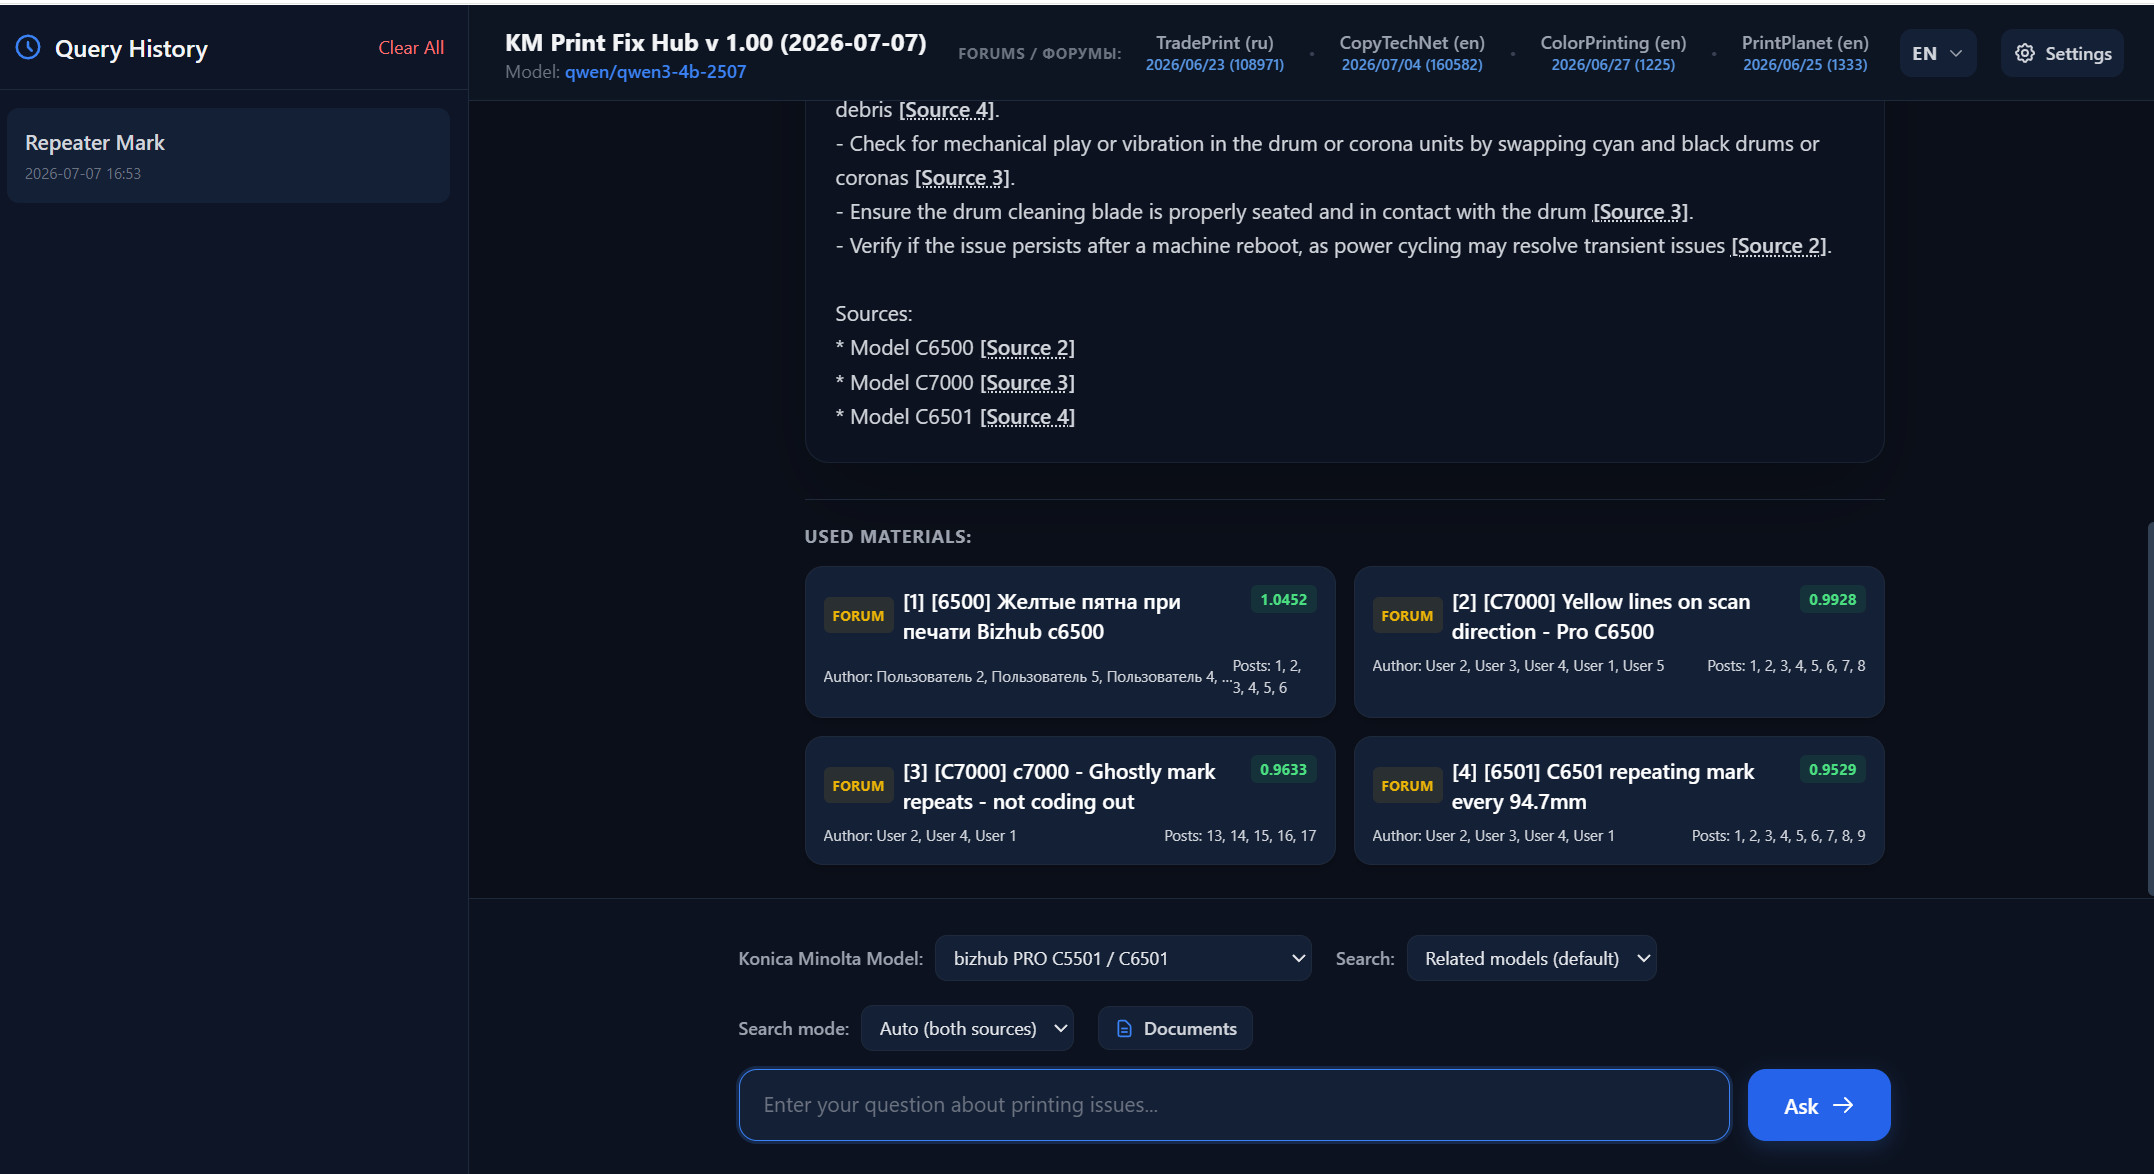
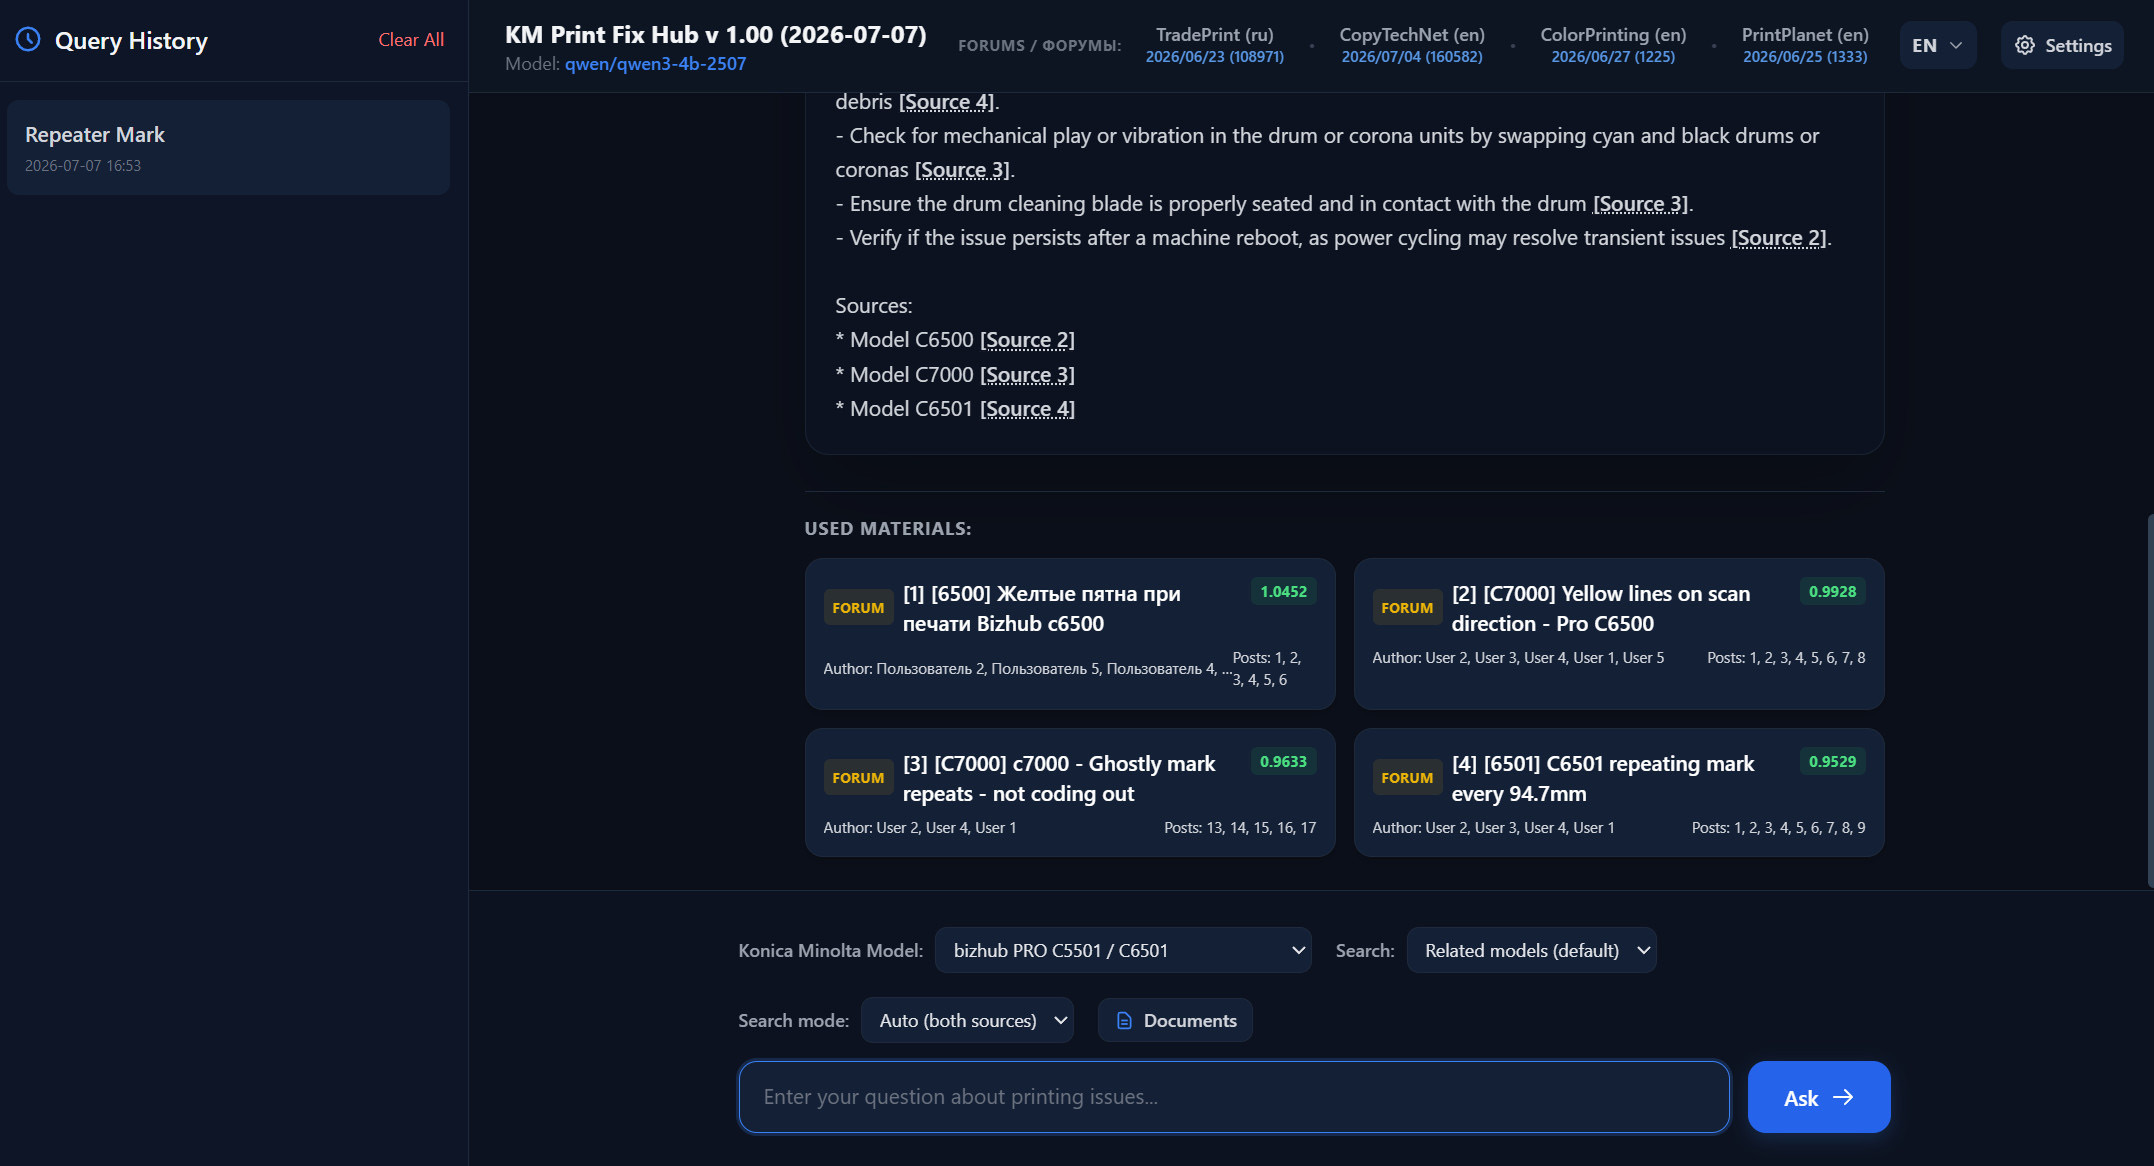
Add screenshot layout to README.md and update build files

diff --git a/README.md b/README.md
@@ -2,6 +2,12 @@
 
 Bilingual documentation / Двуязычная документация: **[English](#english) | [Русский](#русский)**
 
+<p align="center">
+  <img src="images/print_fix_01.jpg" width="32%" alt="Screenshot 1" />
+  <img src="images/print_fix_02.jpg" width="32%" alt="Screenshot 2" />
+  <img src="images/print_fix_03.jpg" width="32%" alt="Screenshot 3" />
+</p>
+
 ---
 
 ## English